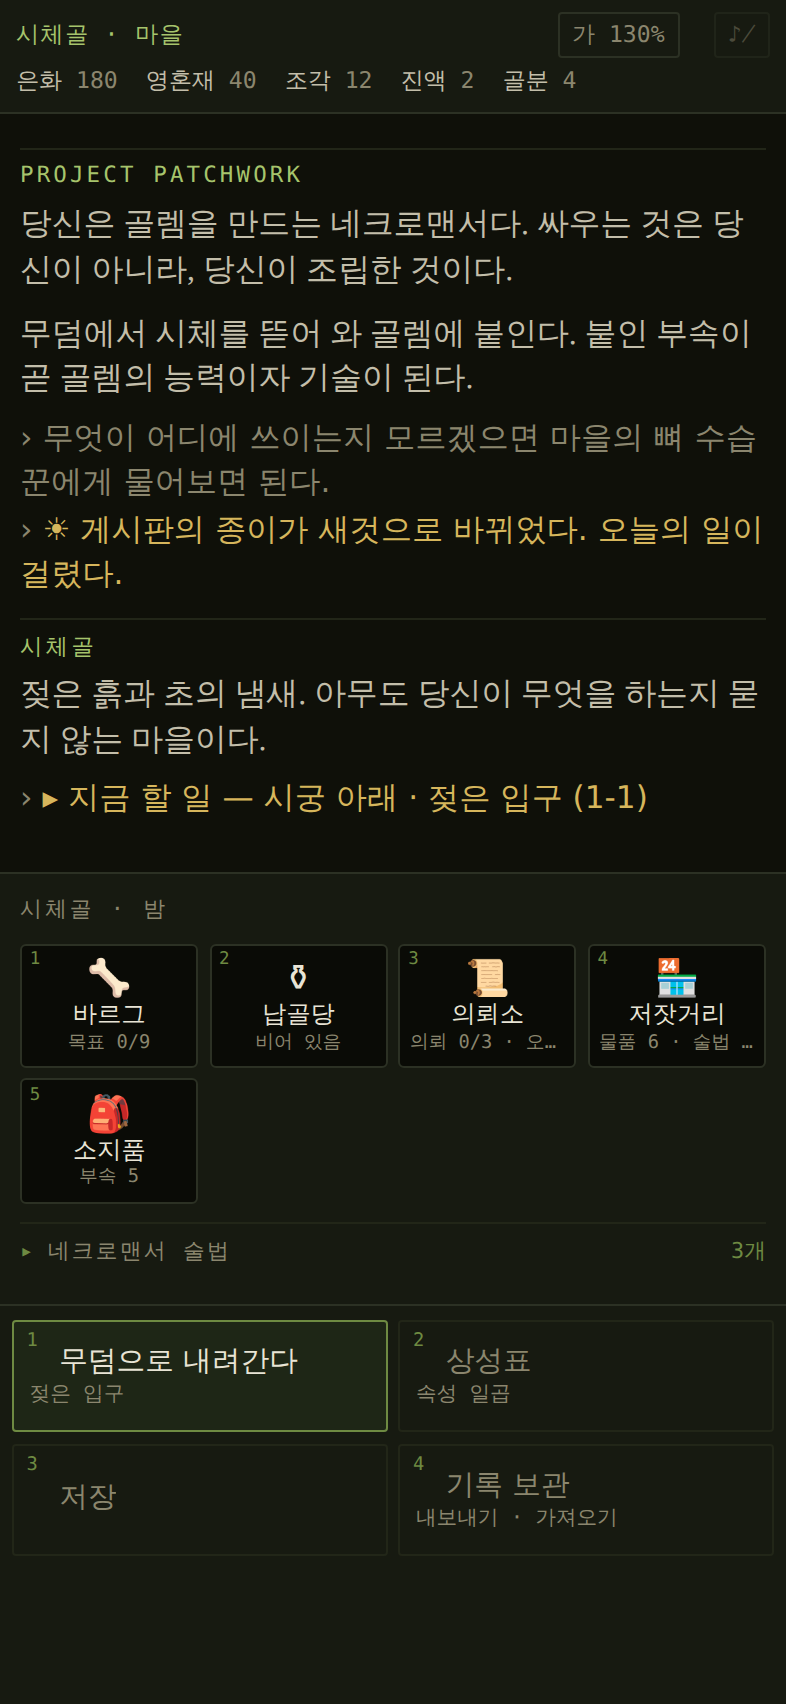
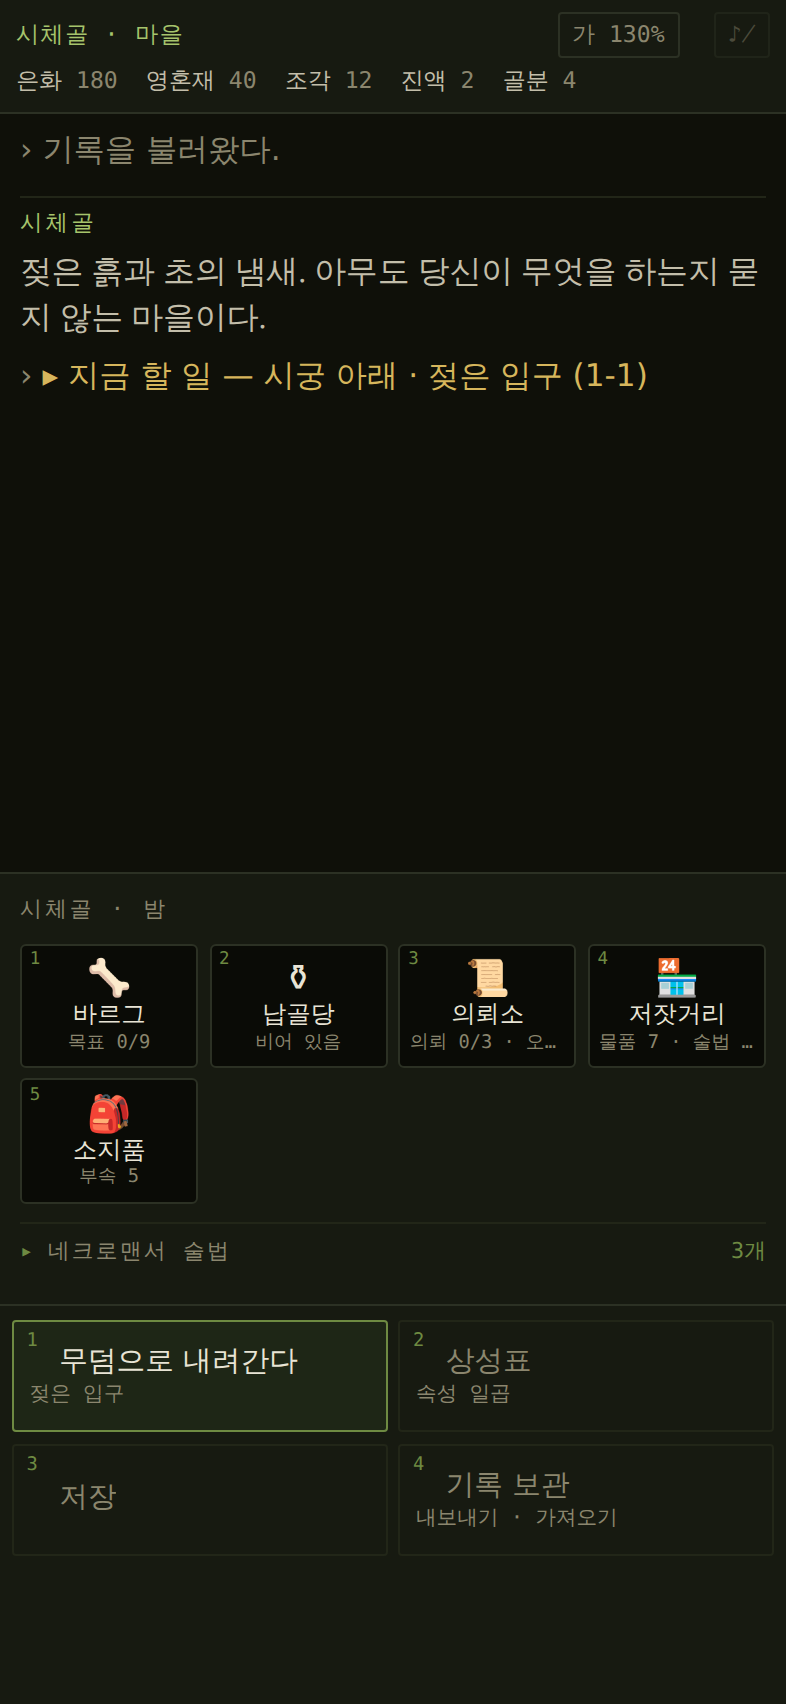
「돌아가는 일」 — 시간이 드는 것을 전부 한 자리에 (§9.5-A)
시간이 드는 것이 여섯 군데로 흩어져 있었다 — 부패조·해체대·접합로·정비대·
자율 탐험·대장간. 각 화면에 들어가 봐야 알 수 있으면 걸어 둔 것을 잊고 나간다.
그전까지 「오프라인 정산」 구역에는 부패조 레벨과 상한만 적혀 있었다 —
정산의 규칙은 알려 주면서 지금 무엇이 돌아가는지는 말하지 않았다.

- 그 구역을 「돌아가는 일」로 바꿔 여섯 군데를 한 줄씩 모은다.
  접힌 채로도 「6건 · 가장 빠른 것 12분 남음」이 보이고, 펼치면 전부 나온다.
- 무엇인지까지 적는다 — 「해체대 30분」이 아니라 「해체대 · 고블린의 발톱팔 · 30분」,
  「자율 탐험 1시간」이 아니라 「자율 탐험 · 2호 골렘 — 젖은 입구 · 1시간」.
  기다릴 값어치가 있는지를 들어가 보지 않고 정할 수 있어야 한다.
- 끝나는 순서대로 세운다. 끝이 없는 부패조는 「계속」으로 적고 맨 아래.
- 좁은 칸에서 「접합로」가 두 줄로 접혀 .rows.jobs의 앞칸을 넓혔다.

버그: 마을의 납골당 타일이 해체대·접합로·자율 탐험만 세고 있었다 —
정비를 걸어 두고 나와도 「비어 있음」이었다. 정비대와 대장간까지 넣어 세고,
가장 빠른 것이 언제 끝나는지를 함께 적는다.

규칙으로 남긴다: 시간이 드는 시설을 새로 만들면 이 목록에도 넣는다.
넣지 않으면 그 시설은 "걸어 두면 잊히는 것"이 된다.

회귀: v53(여섯 군데 전부 · 순서 · 빈 상태 · 타일 배지) 통과.
전체 56개 중 실패는 v10·v23(이전부터)과 v20·v21(밸런스 탐색)뿐. npm run check 통과.

Claude-Session: https://claude.ai/code/session_0132wSnXQUoCD5AhJLzL1ABP

diff --git a/src/ui.js b/src/ui.js
@@ -942,6 +942,45 @@ export function ossuaryPanel(save, O, now = Date.now(), go = {}) {
 
   t('altar', '🕯', '제단', `영혼재 ${save.soulAsh}`);
 
+  /* ── 돌아가는 일 (§9.5-A) ────────────────────────────
+     시간이 드는 것은 여섯 군데에 흩어져 있다 — 부패조·해체대·접합로·정비대·자율 탐험·대장간.
+     각 화면에 들어가 봐야 알 수 있으면, 걸어 둔 것을 잊고 그냥 나간다.
+     **여기 한 줄씩 모아 놓는다.** 끝나는 순서대로. */
+  const jobs_ = [];
+  /** endsAt이 없으면(부패조처럼) 끝이 없는 상시 진행이다 */
+  const push_ = (where, what, job, warn = false) => {
+    const endsAt = job ? job.startedAt + job.durationMs : 0;
+    jobs_.push({ where, what, endsAt, warn,
+      when: job ? O.remainText(job.startedAt, job.durationMs, now) : '계속' });
+  };
+
+  if (o.built.rotVat) {
+    const cap = O.vatCap(o);
+    if (o.rotVat.stored >= cap) push_('부패조', '가득 찼다 — 비워야 다시 고인다', null, true);
+    else if (o.rotVat.input > 0) push_('부패조', `진액이 고이는 중 ${o.rotVat.stored}/${cap}`, null);
+    else push_('부패조', '재료를 넣지 않았다 — 아무것도 고이지 않는다', null, true);
+  }
+  for (const j of o.dissection?.slots ?? []) {
+    push_('해체대', j.name ?? '부속 해체', j);
+  }
+  for (const j of o.forge?.slots ?? []) {
+    push_('접합로', O.RECIPES[j.recipe]?.name ?? '작업', j);
+  }
+  for (const j of o.overhaul ?? []) {
+    push_('정비대', O.OVERHAUL[j.kind]?.name ?? '정비', j);
+  }
+  for (const d of o.laborBay?.dispatch ?? []) {
+    const g = (o.workshop?.golems ?? []).find((x) => x.id === d.golemId);
+    push_('자율 탐험', `${g?.name ?? '골렘'} — ${d.stageName ?? ''}`, d);
+  }
+  for (const j of save.town?.smithy ?? []) {
+    push_('뼈 모루', j.part ? partName(j.part) : '강화', j);
+  }
+  // 끝나는 순서대로. 상시 진행(부패조)은 맨 뒤로 보내 '언제 끝나는가'가 위에 오게 한다
+  jobs_.sort((a, b) => (a.endsAt || Infinity) - (b.endsAt || Infinity));
+  const soonest_ = jobs_.find((j) => j.endsAt);
+  const soon_ = soonest_ ? soonest_.when : null;
+
   /* 날것은 **장착 중인 것과 소지품에 있는 것을 갈라 세어야 한다.**
      접합로의 정착은 소지품에 있는 것만 받는데, 배지가 둘을 합쳐 세는 바람에
      "정착 대기 1개"라고 알리면서 정작 정착 버튼은 "정착할 날것이 없다"가 됐다. */
@@ -954,13 +993,16 @@ export function ossuaryPanel(save, O, now = Date.now(), go = {}) {
       ${rawN ? `<span class="chip warn">정착 대기 ${rawN}개</span>` : ''}
       ${rawWorn ? `<span class="chip warn">장착 중 날것 ${rawWorn}개</span>` : ''}
     </div>` : ''}
-    ${sec('idle', '오프라인 정산', `상한 ${Math.round(o.offlineCapMs / 3600000)}시간`,
-      `<div class="chips">
+    ${sec('idle', '돌아가는 일', jobs_.length ? `${jobs_.length}건${soon_ ? ` · 가장 빠른 것 ${soon_}` : ''}` : '없다',
+      (jobs_.length
+        ? `<div class="rows jobs">${jobs_.map((j) => rowHTML(j.where, esc(j.what), j.when, j.warn)).join('')}</div>`
+        : '<p class="empty">걸어 둔 일이 없다. 걸어 두지 않으면 시간은 아무것도 만들지 않는다.</p>')
+      + `<div class="chips">
         <span class="chip">상한 ${Math.round(o.offlineCapMs / 3600000)}시간</span>
         <span class="chip">부패조 Lv${o.rotVat.level}</span>
       </div>
       <p class="note">자리를 비운 사이 흐른 시간만큼 한 번에 정산된다.
-        부패조는 상한에 닿으면 생산을 멈춘다.</p>`)}`);
+        상한을 넘긴 시간은 버려지므로, 오래 비울 거면 제단에서 상한을 늘려 둔다.</p>`, true)}`);
   bindTiles(go);
 }
 

diff --git a/src/main.js b/src/main.js
@@ -467,11 +467,21 @@ function town(intro = true) {
   save();
 }
 
+/**
+ * 마을 타일 한 줄. **시간이 드는 것을 하나도 빼지 않고 센다** (§9.5-A) —
+ * 정비대와 대장간을 빼고 세는 바람에, 정비를 걸어 둔 채 '비어 있음'이라고 적혀 있었다.
+ */
 function ossuaryBadge() {
   const o = S.ossuary;
-  const busy = o.dissection.slots.length + o.forge.slots.length + o.laborBay.dispatch.length;
+  const running = [
+    ...o.dissection.slots, ...(o.forge?.slots ?? []), ...o.laborBay.dispatch,
+    ...(o.overhaul ?? []), ...(S.town?.smithy ?? []),
+  ];
   if (o.rotVat.stored >= O.vatCap(o)) return '통이 가득';
-  return busy ? `작업 ${busy}건` : '비어 있음';
+  if (!running.length) return '비어 있음';
+  const soonest = running.reduce((a, b) =>
+    (a.startedAt + a.durationMs <= b.startedAt + b.durationMs ? a : b));
+  return `${running.length}건 · ${O.remainText(soonest.startedAt, soonest.durationMs)}`;
 }
 
 /* ── 영혼석 강화 — 마력을 늘린다 (§3.7) ──────────────────

diff --git a/index.html b/index.html
@@ -600,6 +600,10 @@ button{font:inherit;color:inherit;background:none;border:none;cursor:pointer}
 .row .vl{min-width:0;overflow-wrap:anywhere}
 .row .rt{font-family:var(--mono);font-size:.72rem;color:var(--muted);white-space:nowrap}
 .row .rt.warn{color:var(--danger)}
+
+/* 「돌아가는 일」은 앞칸에 시설 이름이 통째로 들어간다 — 2.7rem이면 「접합로」가 잘려 접힌다 */
+.rows.jobs .row{grid-template-columns:4.6rem 1fr auto}
+.rows.jobs .row .lb{white-space:nowrap;color:var(--ink-soft)}
 .empty{color:var(--muted);font-style:italic}
 
 .statgrid{

diff --git a/docs/GDD.md b/docs/GDD.md
@@ -1428,6 +1428,35 @@ state.lastSeenAt = now;
 **세이브 마이그레이션 (§16.1-B).** 옛 세이브에는 그렇게 붙여 둔 빈 골렘이 있다.
 작업반에서는 떼어내고, 자율 탐험에 나가 있으면 파견 기록째로 지운다.
 
+### 9.5-A 「돌아가는 일」 — 시간이 드는 것은 전부 한 자리에
+
+시간이 드는 것이 **여섯 군데**로 흩어져 있다 — 부패조·해체대·접합로·정비대·자율 탐험·대장간.
+각 화면에 들어가 봐야 알 수 있으면, 걸어 둔 것을 잊고 그냥 나간다.
+그전에는 납골당 패널의 「오프라인 정산」에 **부패조 레벨과 상한**만 적혀 있었다 —
+정산의 규칙은 알려 주면서 *지금 무엇이 돌아가고 있는지는 말하지 않았다.*
+
+이제 그 구역이 **돌아가는 일**이 되어, 여섯 군데를 한 줄씩 모아 놓는다.
+접힌 채로도 제목 옆에 `6건 · 가장 빠른 것 12분 남음`이 보이고, 펼치면 전부 나온다.
+
+| | 적는 것 |
+|---|---|
+| 부패조 | 고이는 중 `10/50` · 가득 참 · 재료를 넣지 않음 |
+| 해체대 | 무엇을 해체하는지 |
+| 접합로 | 어떤 작업인지(정착·융합·이식·정제·소생) |
+| 정비대 | 방어도 재건 / 핵 안정화 / 부속 수복 |
+| 자율 탐험 | 누가 어디로 나갔는지 |
+| 뼈 모루 | 무엇을 강화하는지 (마을이지만 정산은 여기서 함께 난다) |
+
+**끝나는 순서대로 세운다.** 다음에 무엇이 끝나는지가 이 목록을 보는 이유이므로.
+끝이 없는 부패조는 `계속`으로 적고 맨 아래로 보낸다.
+
+**마을 타일도 같은 것을 센다.** 전에는 해체대·접합로·자율 탐험만 세는 바람에,
+정비를 걸어 두고 나와도 「비어 있음」이라고 적혀 있었다.
+이제 정비대와 대장간까지 넣어 세고, 가장 빠른 것이 언제 끝나는지를 함께 적는다.
+
+*규칙*: 시간이 드는 시설을 새로 만들면 **이 목록에도 넣는다.**
+넣지 않으면 그 시설은 "걸어 두면 잊히는 것"이 된다.
+
 ### 9.6 조립대와 작업반 — 일을 하는 것은 골렘이다
 
 **핵은 여분이 있어야 한다.** 지금 전투 골렘에 박혀 있는 핵은 뽑아 쓸 수 없다 —
